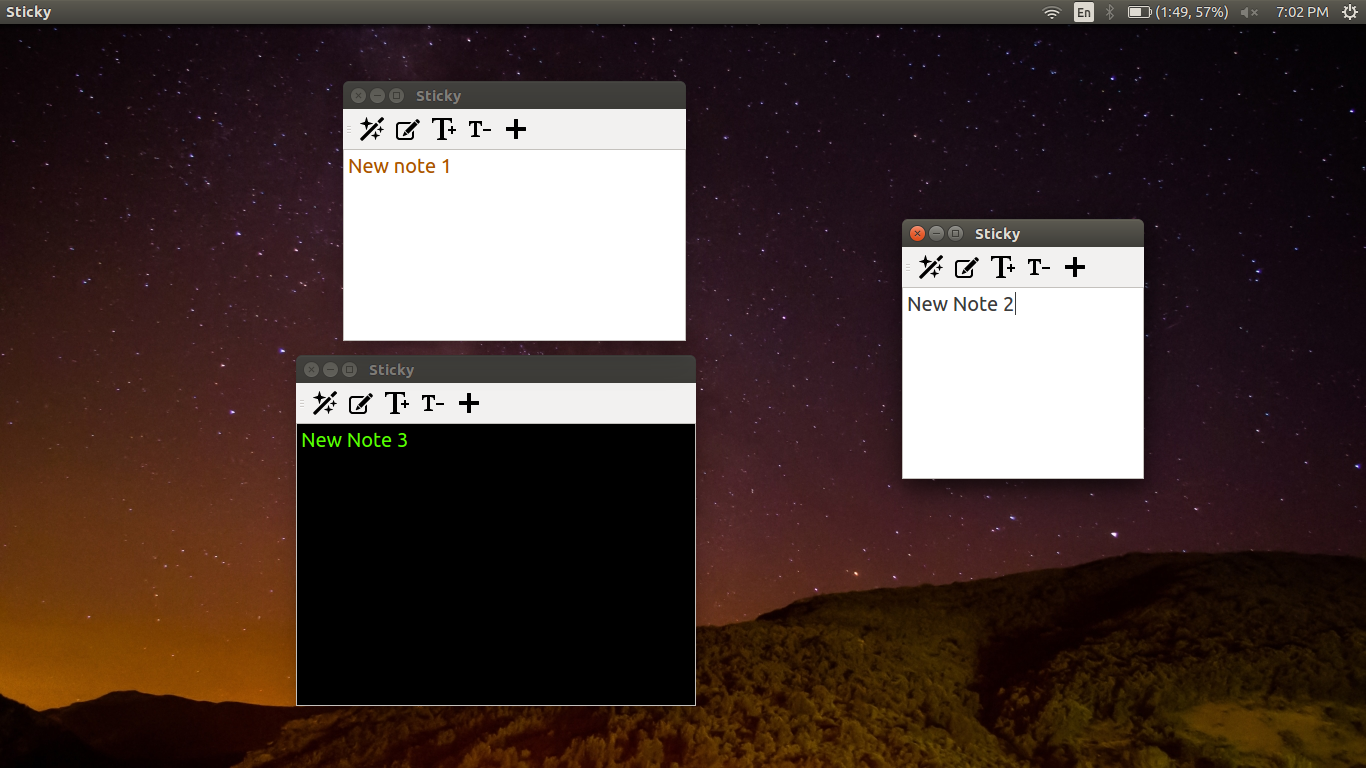
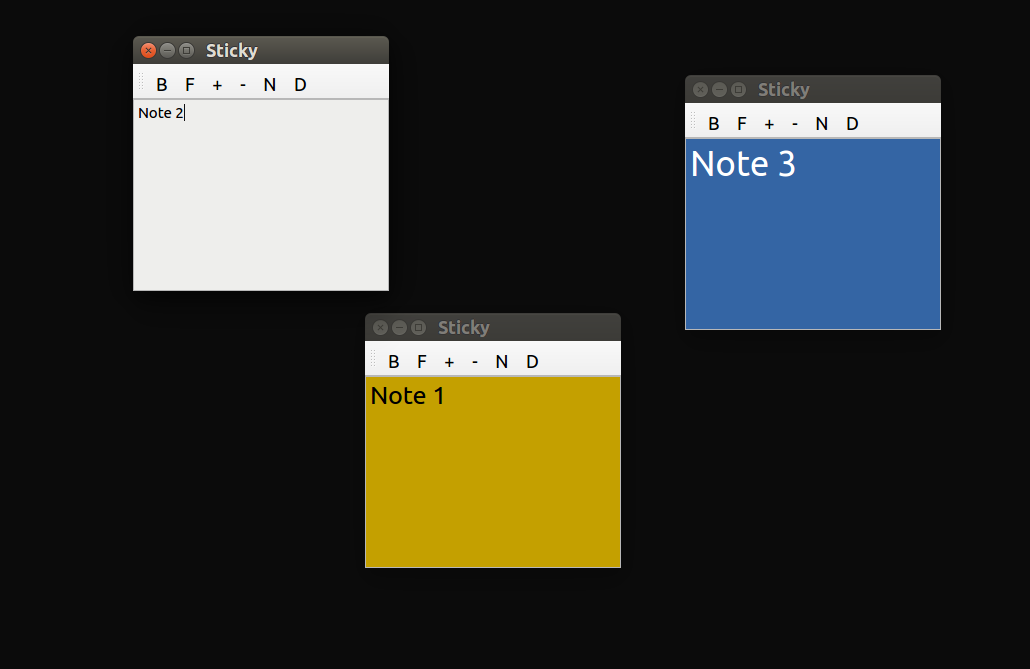
migrate to python3

diff --git a/sticky/sticky.py b/sticky/sticky.py
@@ -1,15 +1,11 @@
 import sys
-from PySide import QtCore, QtGui
+from PySide2 import QtCore, QtGui, QtWidgets
 import os
 
-windows = []
-cur_dir = os.path.dirname(__file__)
-backup_file = '.stickynotes-backup'
-backup_progress = False
 
-class Sticky(QtGui.QMainWindow):
+class Sticky(QtWidgets.QMainWindow):
 	def __init__(self, on_create, on_close, on_delete, text=None, config=None):
-		QtGui.QMainWindow.__init__(self)
+		QtWidgets.QMainWindow.__init__(self)
 		self.on_create = on_create
 		self.on_close = on_close
 		self.on_delete = on_delete
@@ -19,7 +15,7 @@ class Sticky(QtGui.QMainWindow):
 		self.initUI()
 
 	def initUI(self):
-		self.note = QtGui.QTextEdit(self)
+		self.note = QtWidgets.QTextEdit(self)
 		self.pal = QtGui.QPalette()
 		self.font = QtGui.QFont()
 		self.font.setPointSize(15)
@@ -43,27 +39,27 @@ class Sticky(QtGui.QMainWindow):
 		self.show()
 
 	def addToolBarElements(self):
-		self.bgcolor = QtGui.QAction("B", self)
+		self.bgcolor = QtWidgets.QAction("B", self)
 		self.bgcolor.setToolTip("Background Color")
 		self.bgcolor.triggered.connect(self.changeBgColor)
 
-		self.textcolor = QtGui.QAction("F", self)
+		self.textcolor = QtWidgets.QAction("F", self)
 		self.textcolor.setToolTip("Text Color")
 		self.textcolor.triggered.connect(self.changeTextColor)
 
-		self.increasefont = QtGui.QAction("+", self)
+		self.increasefont = QtWidgets.QAction("+", self)
 		self.increasefont.setToolTip("Increase Text Size")
 		self.increasefont.triggered.connect(self.increaseFontSize)
 
-		self.decreasefont = QtGui.QAction("-", self)
+		self.decreasefont = QtWidgets.QAction("-", self)
 		self.decreasefont.setToolTip("Decrease Text Size")
 		self.decreasefont.triggered.connect(self.decreaseFontSize)
 
-		self.newwindow = QtGui.QAction("N", self)
+		self.newwindow = QtWidgets.QAction("N", self)
 		self.newwindow.setToolTip("New Note")
 		self.newwindow.triggered.connect(self.create_new_window)
 
-		self.deleteWindow = QtGui.QAction("D", self)
+		self.deleteWindow = QtWidgets.QAction("D", self)
 		self.deleteWindow.setToolTip("Delete Note")
 		self.deleteWindow.triggered.connect(self.delete_window)
 
@@ -75,13 +71,13 @@ class Sticky(QtGui.QMainWindow):
 		self.toolBar.addAction(self.deleteWindow)
 
 	def changeBgColor(self):
-		selectedcolor = QtGui.QColorDialog.getColor()
+		selectedcolor = QtWidgets.QColorDialog.getColor()
 		if QtGui.QColor.isValid(selectedcolor):
 			self.pal.setColor(QtGui.QPalette.Base,selectedcolor)
 			self.note.setPalette(self.pal)
 
 	def changeTextColor(self):
-		selectedcolor = QtGui.QColorDialog.getColor()
+		selectedcolor = QtWidgets.QColorDialog.getColor()
 		if QtGui.QColor.isValid(selectedcolor):
 			self.pal.setColor(QtGui.QPalette.Text,selectedcolor)
 			self.note.setPalette(self.pal)
@@ -143,99 +139,99 @@ class Sticky(QtGui.QMainWindow):
 		return config
 
 
-def create_new_window(text=None, config=None):
-	global windows
-	w = Sticky(create_new_window, create_backup, delete_window, text, config)
-	w.show()
-	windows.append(w)
+class App():
+	"""Main App Class, It handles the notes creation
+	"""
+	def __init__(self):
+		self.app = QtWidgets.QApplication(sys.argv)
+		self.windows = []
+		self.cur_dir = os.path.dirname(__file__)
+		self.backup_file = '.stickynotes-backup'
+		self.backup_progress = False
+		self.initiate_notes()
 
+	def initiate_notes(self):
+		_backup_file = os.path.join(self.cur_dir, self.backup_file)
 
-def create_backup():
-	global windows
-	global backup_progress
-	if not len(windows) or backup_progress:
-		return
+		if not os.path.exists(_backup_file):
+			self.create_new_window()
+			return
 
-	backup_progress = True
-	backups = []
-	for window in windows:
-		window_text = window.get_current_text()
-		if valid_note(window_text):
-			window_config = window.get_current_config()
-			backup = {
-				'text': window_text,
-				'config': window_config
-			}
+		with open(_backup_file, "r") as f:
+			backups = f.readlines()
 
-			backups.append(backup)
-
-		window.close()
-
-	windows = []
-	if len(backups):
-		save_backup(backups)
-
-	backup_progress = False
-
-
-def valid_note(window_text):
-	if window_text == "" or not window_text:
-		return False
-
-	return True
-
-
-def save_backup(backups):
-	global cur_dir
-	global backup_file
-
-	_backup_file = os.path.join(cur_dir, backup_file)
-
-	with open(_backup_file, "w") as f:
-		f.write(str(backups))
-
-
-def get_old_config(self):
-	config_file = os.path.join(self.cur_dir, self.configfile)
-	if not os.path.exists(config_file):
-		return
-
-	with open(config_file, "r") as f:
-		config = f.readlines()
-
-	if config:
 		import ast
-		config = ast.literal_eval(config[0])
-	return config
+		backup_list = ast.literal_eval(backups[0])
+		for backup in backup_list:
+			self.create_new_window(backup['text'], backup['config'])
 
+		os.remove(_backup_file)
 
-def initiate_notes():
-	global cur_dir
-	global backup_file
+	def create_new_window(self, text=None, config=None):
+		w = Sticky(self.create_new_window, self.create_backup, self.delete_window, text, config)
+		w.show()
+		self.windows.append(w)
 
-	_backup_file = os.path.join(cur_dir, backup_file)
+	def create_backup(self):
+		if not len(self.windows) or self.backup_progress:
+			return
 
-	if not os.path.exists(_backup_file):
-		create_new_window()
-		return
+		self.backup_progress = True
+		backups = []
+		for window in self.windows:
+			window_text = window.get_current_text()
+			if self.valid_note(window_text):
+				window_config = window.get_current_config()
+				backup = {
+					'text': window_text,
+					'config': window_config
+				}
 
-	with open(_backup_file, "r") as f:
-		backups = f.readlines()
+				backups.append(backup)
 
-	import ast
-	backup_list = ast.literal_eval(backups[0])
-	for backup in backup_list:
-		create_new_window(backup['text'], backup['config'])
+			window.delete_window()
 
-	os.remove(backup_file)
+		if len(backups):
+			self.save_backup(backups)
 
+		self.backup_progress = False
 
-def delete_window():
-	global windows
-	windows = [window for window in windows if not window.deleted]
+	def valid_note(self, window_text):
+		if window_text == "" or not window_text:
+			return False
+
+		return True
+
+	def save_backup(self, backups):
+
+		_backup_file = os.path.join(self.cur_dir, self.backup_file)
+
+		with open(_backup_file, "w") as f:
+			f.write(str(backups))
+
+	def get_old_config(self):
+		config_file = os.path.join(self.cur_dir, self.configfile)
+		if not os.path.exists(config_file):
+			return
+
+		with open(config_file, "r") as f:
+			config = f.readlines()
+
+		if config:
+			import ast
+			config = ast.literal_eval(config[0])
+		return config
+
+	def delete_window(self):
+		self.windows = [window for window in self.windows if not window.deleted]
+		if not len(self.windows):
+			exit()
 
 
 def run():
-	app = QtGui.QApplication(sys.argv)
-	initiate_notes()
-	sys.exit(app.exec_())
+	main = App()
+	sys.exit(main.app.exec_())
+
+
+if __name__ == '__main__':
+	run()

diff --git a/setup.py b/setup.py
@@ -1,27 +1,30 @@
 from setuptools import setup
 import glob
 
-def readme():
-    with open('README.rst') as f:
-        return f.read()
 
-setup(name='stickynotes',
-      version='0.2.0',
-      description='Sticky Notes',
-      url='http://github.com/veeshalsoni/sticky',
-      author='Vishal Soni',
-      author_email='vishal3soni@gmail.com',
-      keywords='StickyNotes Sticky Notes',
-      license='GPLv3',
-      long_description=readme(),
-      classifiers=[
-	    'Development Status :: 5 - Production/Stable',
+def readme():
+	with open('README.rst') as f:
+		return f.read()
+
+
+setup(
+	name='stickynotes',
+	version='1.0.0',
+	description='Sticky Notes',
+	url='http://github.com/veeshalsoni/sticky',
+	author='Vishal Soni',
+	author_email='vishal3soni@gmail.com',
+	keywords='StickyNotes Sticky Notes',
+	license='GPLv3',
+	long_description=readme(),
+	classifiers=[
+		'Development Status :: 5 - Production/Stable',
 		'Programming Language :: Python',
-    	'Intended Audience :: End Users/Desktop',
+		'Intended Audience :: End Users/Desktop',
 		'License :: OSI Approved :: GNU General Public License v3 (GPLv3)'
-	  ],
-	  data_files=[('/sticky/icons',glob.glob('icons/*'))],
-	  include_package_data=True,
-      install_requires=['PySide'],
-      scripts=['initsticky'],
-      packages=['sticky'])
+	],
+	include_package_data=True,
+	install_requires=['PySide2'],
+	scripts=['initsticky'],
+	packages=['sticky']
+)

diff --git a/README.rst b/README.rst
@@ -5,8 +5,9 @@ Sticky notes for your desktop
 
 Features
 ^^^^^^^^^^^^^^^^^^^^^
-- Colorful Text
-- Colorful Background
+- Back up of notes with data
+- Colored Text
+- Colored Background
 - Font Size Increase/Decrease
 
 Installation
